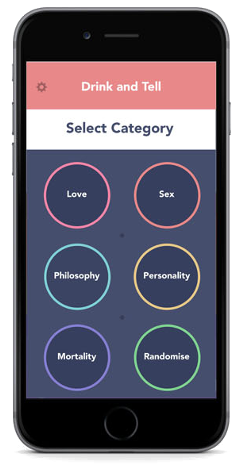
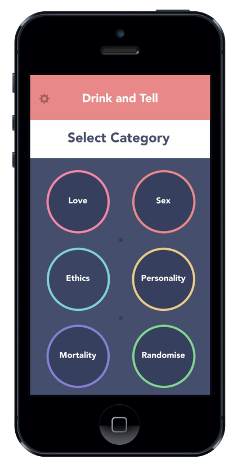
added features

diff --git a/index.html b/index.html
@@ -16,6 +16,53 @@
         <link href='http://fonts.googleapis.com/css?family=Open+Sans+Condensed:300,700' rel='stylesheet' type='text/css'>
         <!----//webfonts---->
 		
+    
+    <script>
+    
+    // By Chris Coyier & tweaked by Mathias Bynens
+
+$(function() {
+
+	// Find all YouTube videos
+	var $allVideos = $("iframe[src^='http://www.youtube.com']"),
+
+	    // The element that is fluid width
+	    $fluidEl = $("body");
+
+	// Figure out and save aspect ratio for each video
+	$allVideos.each(function() {
+
+		$(this)
+			.data('aspectRatio', this.height / this.width)
+			
+			// and remove the hard coded width/height
+			.removeAttr('height')
+			.removeAttr('width');
+
+	});
+
+	// When the window is resized
+	// (You'll probably want to debounce this)
+	$(window).resize(function() {
+
+		var newWidth = $fluidEl.width();
+		
+		// Resize all videos according to their own aspect ratio
+		$allVideos.each(function() {
+
+			var $el = $(this);
+			$el
+				.width(newWidth)
+				.height(newWidth * $el.data('aspectRatio'));
+
+		});
+
+	// Kick off one resize to fix all videos on page load
+	}).resize();
+
+});
+    
+    </script>
     </head>
     
     <body>
@@ -35,7 +82,7 @@
             <!---End-header---->
             <!---start-content---->
             <div class="content">
-                <p class="intro-text">AN APP WHICH UNCOVERS ALL YOUR FRIENDS' DARKETS SECRETS WHILE DRINKING. TAKE TURNS ANSWERING TABOO QUESTIONS FROM 5 CATEGORIES:
+                <p class="intro-text">AN APP WHICH UNCOVERS ALL YOUR FRIENDS' <b>DARKEST</b>     SECRETS WHILE DRINKING. TAKE TURNS ANSWERING TABOO QUESTIONS FROM 5 CATEGORIES:
                     <b>LOVE, SEX, ETHICS, PERSONALITY & MORTALITY.</b> YOUR FRIENDS TRY TO GUESS WHICH MULTIPLE ANSWER YOU WOULD PICK.</p>
                 <p class= "sub-into-text">THOSE WHO GUESS WRONG TAKE A SIP!</p>
               <div class="screenshots">  
@@ -57,19 +104,43 @@
             </div>
             <!---start-panels---->
             <div class="panels">
-               <iframe width="560" height="315" src="https://www.youtube.com/embed/5UwaXWFbdUA" frameborder="0" allowfullscreen></iframe>
+               <iframe width="100%" height="400px" src="https://www.youtube.com/embed/5UwaXWFbdUA" frameborder="0" allowfullscreen></iframe>
                   
                         <div class="clear"></div>
             </div>
             <!---//End-panels---->
-            <!---start-testimonials---->
+            <!---start-promo---->
             <div class="promo-text">
                 <div class="promo-head">
-                    <p>FIND OUT JUST HOW WELL YOUR FRIENDS REALLY KNOW YOU.</p>
-                    <p>ALL WHILE YOU DRINK</p>
+                    <h3>FIND OUT JUST HOW WELL YOUR FRIENDS REALLY KNOW YOU.</h3>
+                    <h3>ALL WHILE YOU DRINK</h3>
+                    <h2>Drink and Tell Features</h2>
+<table style="width:100%">
+  <tr>
+    <td>
+    <h3>Play with 1 friend, or 100 at the same time</h3>
+        <p>Regardless of whether you&#39re drinking wine over dinner with your best mate or at a                house party with 30 strangers, Drink and Tell is the ultimate drinking game. </p>  
+    </td>
+    <td>
+    <h3>Five scandalous categories to choose from</h3>
+<p>We&#39re sick of the same old questions asked when playing &#39Never Have I Ever&#39. Which is why we&#39ve created hundreds of taboo questions for you and your friends to answer. The five categories include: love, sex, ethics, personality and mortality.</p>  
+    </td> 
+    <td><h3>Randomise all your questions like a mixed goodie bag</h3>
+<p>Can&#39t choose just one category? Why not mix them all up with our &#39randomise&#39 feature for more hours of unpredictableness and laughs.</p></td>
+  </tr>
+  <tr>
+    <td><h3>New questions continuously added</h3>
+<p>Our questions generator is constantly busting out new questions, which we add in our updates on a regular basis. Because nobody likes reading the same question over and over again.</p></td>
+    <td><h3>Submit a question for your chance to win unlimited questions</h3>
+<p>We know our users have scandalous questions up their sleeves. All of our users are encouraged to submit their own question for a chance to win an unlimited supply of questions for the rest of their lives.</p></td> 
+    <td><h3>Submit a question for your chance to win unlimited questions</h3>
+<p>We know our users have scandalous questions up their sleeves. All of our users are encouraged to submit their own question for a chance to win an unlimited supply of questions for the rest of their lives.</p></td>
+  </tr>
+</table>
+
                 </div>
             </div>
-            <!---//End-testimonials---->
+            <!---//End-promo---->
             <!---start-news-letter----->
             <div class="news-letter">
                 <p class="heading">SUBMIT YOUR OWN</p>

diff --git a/css/style.css b/css/style.css
@@ -1,5 +1,5 @@
 /* reset */
- html, body, div, span, applet, object, iframe, h1, h2, h3, h4, h5, h6, p, blockquote, pre, a, abbr, acronym, address, big, cite, code, del, dfn, em, img, ins, kbd, q, s, samp, small, strike, strong, sub, sup, tt, var, b, u, i, dl, dt, dd, ol, nav ul, nav li, fieldset, form, label, legend, table, caption, tbody, tfoot, thead, tr, th, td, article, aside, canvas, details, embed, figure, figcaption, footer, header, hgroup, menu, nav, output, ruby, section, summary, time, mark, audio, video {
+ html, body, div, span, applet, object, iframe, h1, h4, h5, h6, p, blockquote, pre, a, abbr, acronym, address, big, cite, code, del, dfn, em, img, ins, kbd, q, s, samp, small, strike, strong, sub, sup, tt, var, b, u, i, dl, dt, dd, ol, nav ul, nav li, fieldset, form, label, legend, table, caption, tbody, tfoot, thead, tr, th, td, article, aside, canvas, details, embed, figure, figcaption, footer, header, hgroup, menu, nav, output, ruby, section, summary, time, mark, audio, video {
     margin:0;
     padding:0;
     border:0;
@@ -7,6 +7,7 @@
     font:inherit;
     vertical-align:baseline;
 }
+
 article, aside, details, figcaption, figure, footer, header, hgroup, menu, nav, section {
     display: block;
 }
@@ -25,6 +26,10 @@ blockquote:before, blockquote:after, q:before, q:after {
 table {
     border-collapse:collapse;
     border-spacing:0;
+}
+
+th,td {
+    padding: 15px;
 }
 /* start editing from here */
  a {
@@ -130,16 +135,14 @@ table {
 .button-transparent-ios {
     color: #FFFFFF;
     font-size: 16px;
-    padding:10px 60px 10px 60px;
-    ;
+    padding:1% 6% 1% 6%;
     border: 2px solid #FFFFFF;
     text-shadow: 2px 4px 3px rgba(0, 0, 0, 0.3);
 }
 .button-transparent-android {
     font-size: 16px;
     color: #FFFFFF;
-    padding:10px 40px 10px 40px;
-    ;
+    padding:1% 4.3% 1% 4.3%;
     border: 2px solid #FFFFFF;
     text-shadow: 2px 4px 3px rgba(0, 0, 0, 0.3);
 }
@@ -188,6 +191,7 @@ table {
  .panels {
     width: 100%;
     margin: 0 auto;
+    height: 100%;
     text-align:center;
     align:center;
     margin-top: 6em;
